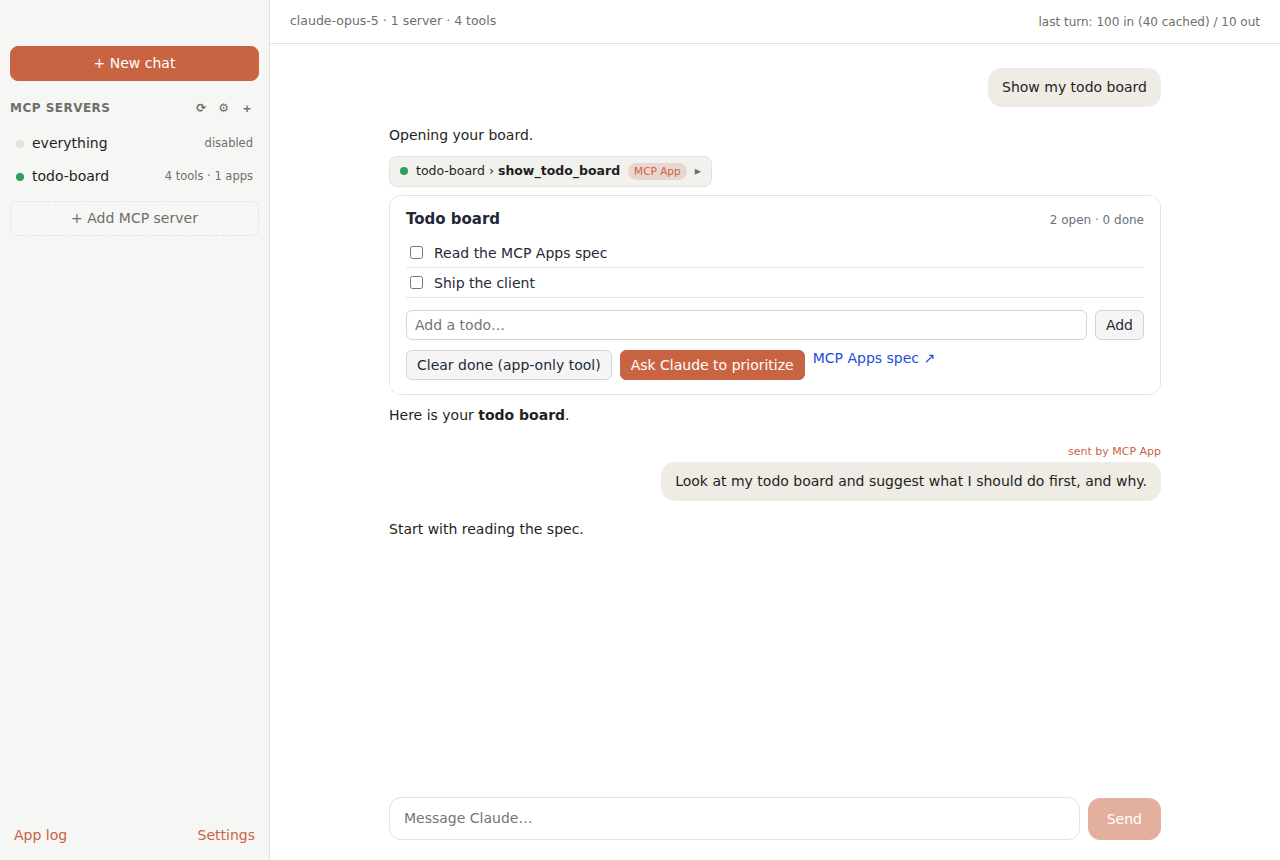
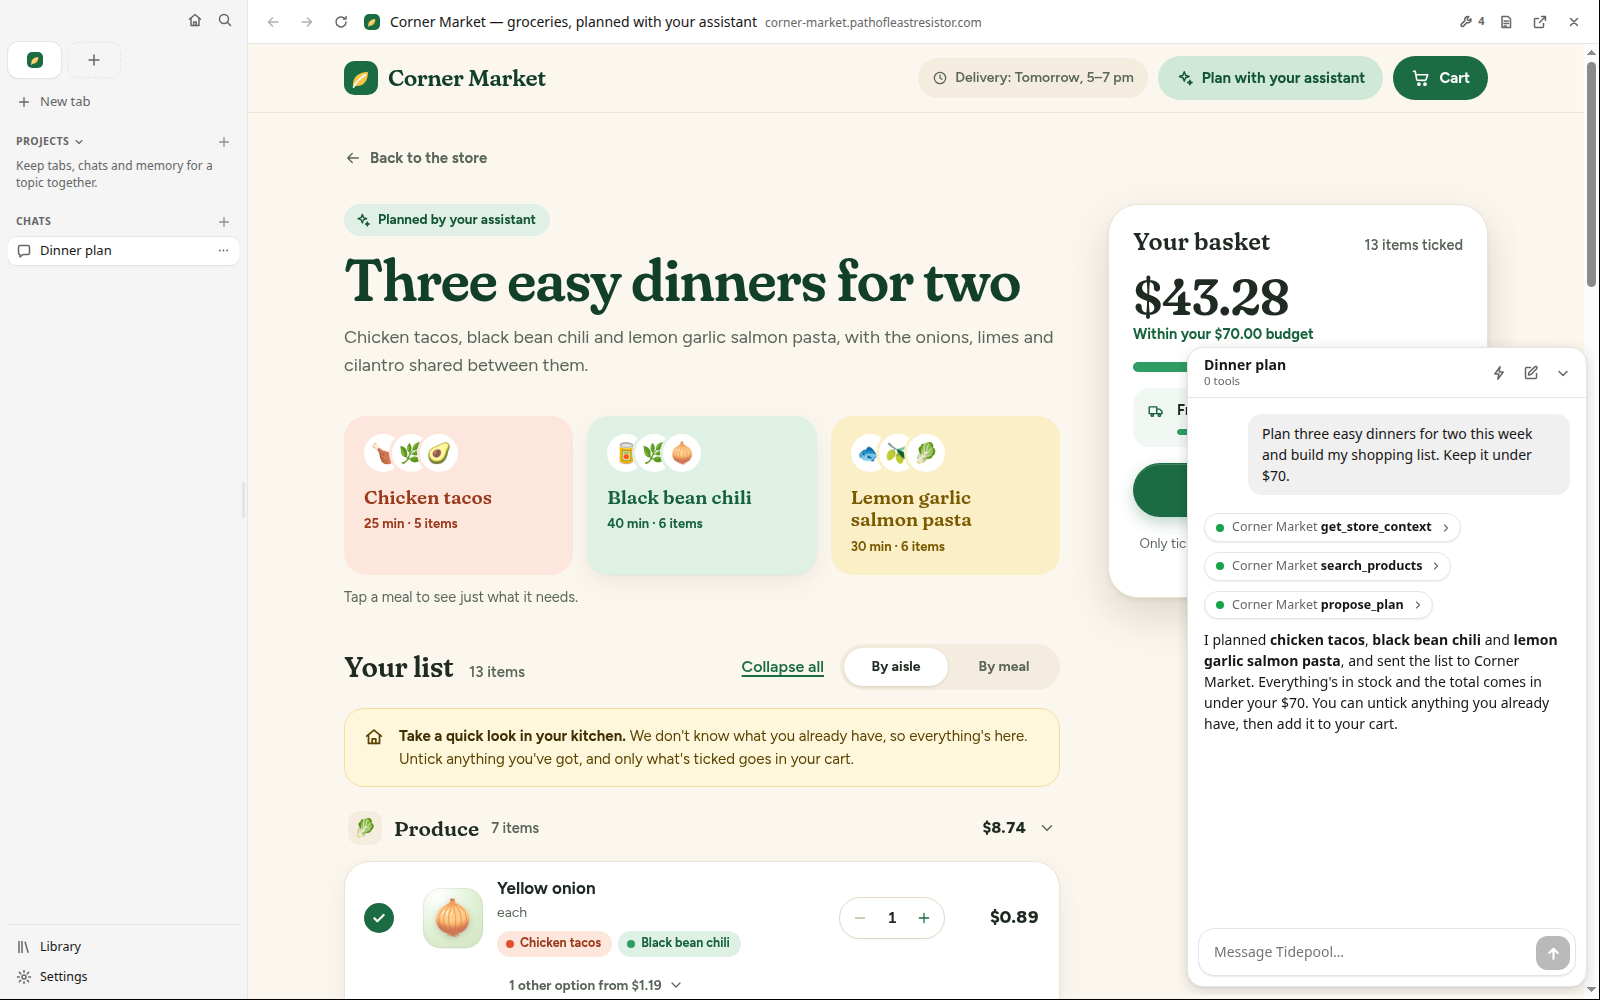
Show a real site and agent in the README screenshot

diff --git a/README.md b/README.md
@@ -9,7 +9,7 @@ client you control end to end, so you can explore what that three-way collaborat
 Today the built-in agent is Claude (through your own Anthropic API key); the app, its tools and its
 MCP and WebMCP plumbing are not specific to it.
 
-![Chat with an MCP App rendered inline](docs/screenshot.png)
+![An agent planning a grocery list on Corner Market, a website that exposes its tools to it, with the chat beside the page](docs/screenshot.png)
 
 ## Features
 
